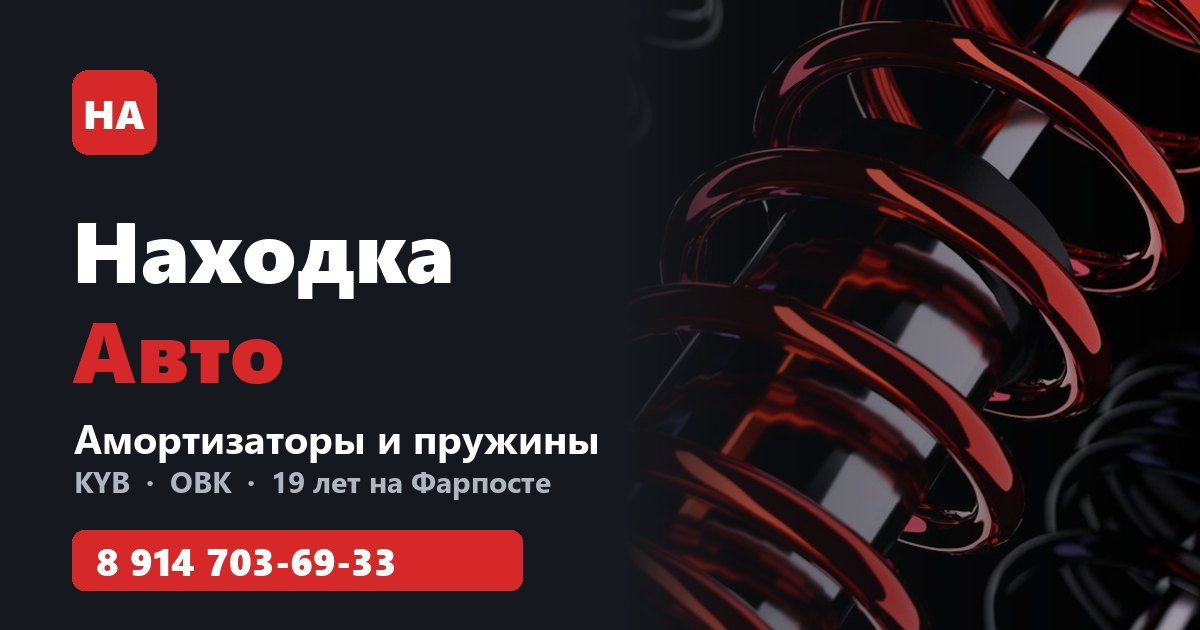
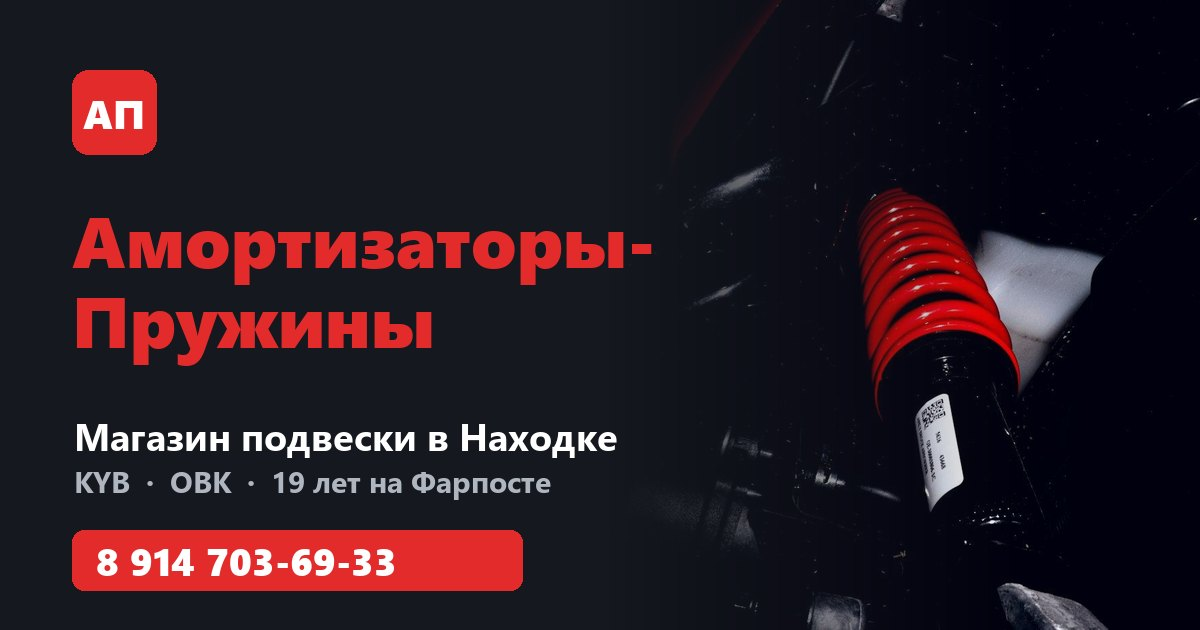
Мамин сайт: фото, яркость, подбор марка→модель, пара и аналоги, кнопки «спросить», название «Амортизаторы-Пружины» (не опубликовано)

diff --git a/script.js b/script.js
@@ -1,5 +1,8 @@
 const PHONE_LINK = "tel:+79147036933";
 const PHONE_TEXT = "8 914 703-69-33";
+const SMS_NUMBER = "+79147036933";
+// Ссылка на мамин профиль в MAX. Пока пусто — кнопка «Спросить в MAX» скрыта.
+const MAX_LINK = "";
 
 function escapeHtml(s) {
   return String(s).replace(/[&<>"']/g, c => ({ "&": "&amp;", "<": "&lt;", ">": "&gt;", '"': "&quot;", "'": "&#39;" }[c]));
@@ -28,12 +31,49 @@ const ITEMS = PARTS.map((r, i) => {
 // Сначала KYB и OBK — основное в магазине
 ITEMS.sort((a, b) => (b.isMain - a.isMain) || a.cat - b.cat || a.brand.localeCompare(b.brand) || a.article.localeCompare(b.article));
 
-const CARS = ["Toyota", "Nissan", "Honda", "Mazda", "Mitsubishi", "Subaru", "Suzuki", "Lexus", "Daihatsu", "Isuzu", "Hyundai", "Kia"];
+// Марки и модели для подбора «марка → модель»
+const MODELS = {
+  Toyota: ["Corolla", "Camry", "Land Cruiser", "Prado", "RAV4", "Prius", "Caldina", "Mark II", "Yaris", "Vitz", "Carina", "Corona", "Wish", "Hiace", "Ipsum", "Highlander", "Avensis", "Premio", "Allion", "Crown", "Celica", "Hilux", "Noah", "Voxy", "Probox", "Succeed", "Harrier", "Vista", "Estima", "Fielder", "Funcargo", "Fortuner", "Alphard", "Aqua", "Auris", "Chaser", "Cresta", "4Runner"],
+  Nissan: ["X-Trail", "Juke", "Almera", "Qashqai", "Primera", "Terrano", "Pathfinder", "Sunny", "Serena", "Murano", "Micra", "Tiida", "Teana", "Patrol", "Maxima", "Leaf", "Wingroad", "Note", "March", "Cube", "Liberty", "Presage", "Bluebird", "Cefiro", "Laurel", "Skyline", "Elgrand"],
+  Honda: ["CR-V", "Fit", "HR-V", "Civic", "Jazz", "Accord", "Stream", "Airwave", "Vezel", "Odyssey", "Shuttle", "Freed", "Stepwgn", "Partner", "Orthia"],
+  Mazda: ["Demio", "MPV", "CX-5", "CX-7", "Tribute", "Bongo", "Premacy", "Familia", "Atenza", "Axela", "Capella"],
+  Mitsubishi: ["Pajero", "Outlander", "Lancer", "Colt", "ASX", "Delica", "Canter", "Airtrek", "RVR", "Galant", "Mirage"],
+  Subaru: ["Forester", "Impreza", "Legacy", "Outback", "Justy", "XV"],
+  Suzuki: ["Grand Vitara", "Escudo", "Swift", "SX4", "Ignis", "Jimny", "Wagon R"],
+  Lexus: ["RX", "ES", "NX", "GX", "GS", "IS", "LX"],
+  Daihatsu: ["Terios", "Cuore", "Charade", "Sirion"],
+  Isuzu: ["Trooper", "Elf", "Bighorn"],
+  Hyundai: ["Creta", "Solaris", "Accent", "Tucson", "Santa Fe", "Elantra", "Getz", "Sonata"],
+  Kia: ["Sorento", "Soul", "Venga", "Rio", "Sportage", "Ceed", "Optima"],
+};
+const CARS = Object.keys(MODELS);
 const carOf = it => CARS.filter(c => it.fits.toLowerCase().includes(c.toLowerCase()));
-ITEMS.forEach(it => { it.cars = carOf(it); });
+ITEMS.forEach(it => { it.cars = carOf(it); it.FITS = it.fits.toUpperCase(); });
+
+// Модель ищем отдельным словом: «Fit» не находится в «FITS», а «RX» находится в «RX300»
+const escRe = s => s.replace(/[.*+?^${}()|[\]\\]/g, "\\$&");
+const modelRe = m => new RegExp("(^|[^A-Z0-9])" + escRe(m.toUpperCase()).replace(/[-\s]/g, "[-\\s]?") + "(?![A-Z])");
+const MODEL_RE = {}, MODEL_COUNT = {};
+CARS.forEach(c => MODELS[c].forEach(m => {
+  MODEL_RE[m] = modelRe(m);
+  MODEL_COUNT[m] = ITEMS.filter(it => MODEL_RE[m].test(it.FITS)).length;
+}));
+
+// Место установки (перед/зад, лев/прав) — для пары и аналогов
+const placeOf = s => ({ front: /перед/i.test(s), rear: /зад/i.test(s), left: /лев/i.test(s), right: /прав/i.test(s) });
+const samePlace = (a, b) =>
+  (!(a.front || a.rear) || !(b.front || b.rear) || (a.front && b.front) || (a.rear && b.rear)) &&
+  (!(a.left || a.right) || !(b.left || b.right) || (a.left && b.left) || (a.right && b.right));
+// Коды кузова из применимости (ACV40, GX81, ZRE152…) — по ним ищем аналоги других брендов
+const NOT_CODES = /^(2WD|4WD|AWD|4X4|4X2|\d+V|\d+MM|\d+L)$/;
+const codesOf = t => new Set((t.match(/[A-Z0-9]+(?:-[A-Z0-9]+)?/g) || [])
+  .filter(c => c.length >= 3 && /\d/.test(c) && /[A-Z]/.test(c) && !NOT_CODES.test(c)));
+// Применимость без пометок стороны («-- FR», «LH», «перед прав»), чтобы левая и правая совпали
+const baseFits = t => t.toUpperCase().replace(/--\s*(FR|FL|RR|RL|F|R)\b/g, "").replace(/\b(LH|RH|LEFT|RIGHT|FRONT|REAR)\b/g, "").replace(/\s+/g, " ").trim();
+ITEMS.forEach(it => { it.place = placeOf(it.side); it.codes = codesOf(it.FITS); it.base = baseFits(it.fits); });
 
 const PAGE = 30;
-const state = { cat: null, car: "", brand: "", query: "", shown: PAGE };
+const state = { cat: null, car: "", model: "", brand: "", query: "", shown: PAGE };
 
 const $ = id => document.getElementById(id);
 const grid = $("productGrid"), count = $("catalogCount"), empty = $("emptyState"), moreBtn = $("moreBtn");
@@ -54,7 +94,8 @@ brandSelect.innerHTML += brandOrder.map(b => `<option value="${escapeHtml(b)}">$
 
 function matches(it, words, compact) {
   if (state.cat !== null && it.cat !== state.cat) return false;
-  if (state.car && !it.cars.includes(state.car)) return false;
+  if (state.model) { if (!MODEL_RE[state.model].test(it.FITS)) return false; }
+  else if (state.car && !it.cars.includes(state.car)) return false;
   if (state.brand && it.brand !== state.brand) return false;
   if (!words.length) return true;
   return words.every(w => it.text.includes(w)) || (compact.length >= 3 && it.art.includes(compact));
@@ -86,13 +127,18 @@ function renderChips() {
     PART_CATEGORIES.map((c, n) => `<button class="chip ${state.cat === n ? "is-active" : ""}" data-cat="${n}">${escapeHtml(c)}</button>`).join("");
   $("carChips").innerHTML = `<span class="chips__label">Машина:</span>` +
     ["", ...CARS].map(c => `<button class="chip chip--small ${state.car === c ? "is-active" : ""}" data-car="${c}">${c || "Любая"}</button>`).join("");
+  const models = state.car ? MODELS[state.car].filter(m => MODEL_COUNT[m] > 0) : [];
+  $("modelRow").hidden = !models.length;
+  $("modelSelect").innerHTML = `<option value="">Все модели ${state.car}</option>` +
+    models.map(m => `<option value="${m}"${state.model === m ? " selected" : ""}>${m} (${MODEL_COUNT[m]})</option>`).join("");
   brandSelect.value = state.brand;
 }
 
 function render() {
   renderChips();
   const list = filtered();
-  $("catalogTitle").textContent = state.cat === null ? "Каталог" : PART_CATEGORIES[state.cat];
+  $("catalogTitle").textContent = (state.cat === null ? "Каталог" : PART_CATEGORIES[state.cat]) +
+    (state.model ? ` для ${state.car} ${state.model}` : state.car ? ` для ${state.car}` : "");
   count.textContent = list.length ? `Найдено: ${list.length.toLocaleString("ru-RU")}` : "";
   empty.hidden = list.length > 0;
   grid.innerHTML = list.slice(0, state.shown).map(card).join("");
@@ -129,8 +175,10 @@ $("carChips").addEventListener("click", e => {
   const b = e.target.closest("[data-car]");
   if (!b) return;
   state.car = b.dataset.car;
+  state.model = "";
   reset();
 });
+$("modelSelect").addEventListener("change", e => { state.model = e.target.value; reset(); });
 brandSelect.addEventListener("change", () => { state.brand = brandSelect.value; reset(); });
 
 $("searchForm").addEventListener("submit", e => {
@@ -148,9 +196,11 @@ moreBtn.addEventListener("click", () => { state.shown += PAGE; render(); });
 
 // Окно товара
 const modal = $("productModal"), modalBody = $("modalBody");
+let currentPart = null;
 function openPart(i) {
   const it = ITEMS.find(x => x.i === i);
   if (!it) return;
+  currentPart = i;
   const rows = [
     ["Раздел", PART_CATEGORIES[it.cat]],
     ["Бренд", it.brand],
@@ -165,10 +215,66 @@ function openPart(i) {
       <table class="specs">${rows.map(([k, v]) => `<tr><td>${k}</td><td>${escapeHtml(v)}</td></tr>`).join("")}</table>
       <div class="modal__price">${money(it.price)}</div>
       <p class="modal__note">Цена по прайсу от ${PARTS_UPDATED}. Наличие уточняйте по телефону.</p>
-      <a class="btn btn--call btn--big" href="${PHONE_LINK}">Позвонить: ${PHONE_TEXT}</a>
+      <div class="ask">
+        <a class="btn btn--call btn--big" href="${PHONE_LINK}">Позвонить: ${PHONE_TEXT}</a>
+        <a class="btn btn--ghost" href="sms:${SMS_NUMBER}?&body=${encodeURIComponent(askText(it))}">Спросить по СМС</a>
+        ${MAX_LINK ? `<button class="btn btn--max" data-ask-max>Спросить в MAX</button>` : ""}
+        <button class="btn btn--ghost" data-copy>Скопировать артикул</button>
+      </div>
+      <p class="ask__tip" id="askTip" hidden></p>
+      ${related("Для этой же машины", sameCar(it), "Тот же бренд и та же машина — например, вторая сторона, чтобы поменять парой.")}
+      ${related("Аналоги других брендов", analogs(it), "Подобраны по коду кузова и месту установки. Точную совместимость сверим по телефону.")}
     </div>`;
   modal.showModal();
+  modal.scrollTop = 0;
 }
+
+// Текст вопроса маме — сразу с брендом, артикулом и названием
+const askText = it => `Здравствуйте! Есть в наличии ${it.brand} ${it.article} — ${it.name}${it.side ? " (" + it.side + ")" : ""}? Нашёл на сайте «Амортизаторы-Пружины».`;
+
+// Для той же машины: тот же бренд и та же применимость (пара, пружины, опоры…)
+function sameCar(it) {
+  if (!it.fits) return [];
+  return ITEMS.filter(x => x !== it && x.brand === it.brand && x.base === it.base)
+    .sort((a, b) => a.cat - b.cat || a.price - b.price).slice(0, 6);
+}
+
+// Аналоги: другой бренд, тот же раздел и место установки, общий код кузова
+function analogs(it) {
+  if (!it.codes.size) return [];
+  return ITEMS.filter(x => x.brand !== it.brand && x.cat === it.cat && samePlace(x.place, it.place) && [...x.codes].some(c => it.codes.has(c)))
+    .sort((a, b) => a.price - b.price).slice(0, 6);
+}
+
+function related(title, list, hint) {
+  if (!list.length) return "";
+  return `<section class="related">
+    <h3>${title}</h3>
+    <p class="related__hint">${hint}</p>
+    ${list.map(x => `<button class="related__item" data-open="${x.i}">
+      <span><b>${escapeHtml(x.brand)} ${escapeHtml(x.article)}</b> · ${escapeHtml(x.name)}${x.side ? ` <span class="part__side">${escapeHtml(x.side)}</span>` : ""}</span>
+      <span class="related__price">${money(x.price)}</span>
+    </button>`).join("")}
+  </section>`;
+}
+
+modalBody.addEventListener("click", async e => {
+  const open = e.target.closest("[data-open]");
+  if (open) { openPart(Number(open.dataset.open)); return; }
+  const it = ITEMS.find(x => x.i === currentPart);
+  const tip = $("askTip");
+  if (e.target.closest("[data-copy]")) {
+    try { await navigator.clipboard.writeText(it.article); tip.textContent = `Артикул ${it.article} скопирован.`; }
+    catch { tip.textContent = `Артикул: ${it.article}`; }
+    tip.hidden = false;
+  }
+  if (e.target.closest("[data-ask-max]")) {
+    try { await navigator.clipboard.writeText(askText(it)); tip.textContent = "Текст вопроса скопирован — вставьте его в чат MAX."; }
+    catch { tip.textContent = askText(it); }
+    tip.hidden = false;
+    window.open(MAX_LINK, "_blank", "noopener");
+  }
+});
 grid.addEventListener("click", e => {
   const c = e.target.closest(".card[data-i]");
   if (c) openPart(Number(c.dataset.i));

diff --git a/index.html b/index.html
@@ -3,7 +3,7 @@
 <head>
   <meta charset="utf-8">
   <meta name="viewport" content="width=device-width, initial-scale=1">
-  <title>Находка Авто — амортизаторы и пружины в Находке</title>
+  <title>Амортизаторы-Пружины — магазин подвески в Находке</title>
   <meta name="description" content="Амортизаторы, стойки, пружины, опоры и пыльники KYB, OBK и других брендов в Находке. Поиск по артикулу и машине, цены на сайте. Звоните: 8 914 703-69-33.">
   <link rel="canonical" href="https://olegclaudecode2000-cloud.github.io/nakhodka-avto/">
   <link rel="icon" href="favicon.svg" type="image/svg+xml">
@@ -14,8 +14,8 @@
   <!-- Карточка при отправке ссылки в мессенджерах -->
   <meta property="og:type" content="website">
   <meta property="og:locale" content="ru_RU">
-  <meta property="og:site_name" content="Находка Авто">
-  <meta property="og:title" content="Находка Авто — амортизаторы и пружины в Находке">
+  <meta property="og:site_name" content="Амортизаторы-Пружины">
+  <meta property="og:title" content="Амортизаторы-Пружины — магазин подвески в Находке">
   <meta property="og:description" content="Амортизаторы, стойки и пружины KYB, OBK и других брендов. Поиск по артикулу и машине. 19 лет на Фарпосте. Находкинский пр-т, 1м.">
   <meta property="og:url" content="https://olegclaudecode2000-cloud.github.io/nakhodka-avto/">
   <meta property="og:image" content="https://olegclaudecode2000-cloud.github.io/nakhodka-avto/og-image.jpg">
@@ -28,8 +28,7 @@
   {
     "@context": "https://schema.org",
     "@type": "AutoPartsStore",
-    "name": "Находка Авто",
-    "alternateName": "Амортизаторы-Пружины",
+    "name": "Амортизаторы-Пружины",
     "description": "Амортизаторы, стойки, пружины, опоры и пыльники KYB, OBK и других брендов. Самовывоз и доставка до транспортной компании.",
     "url": "https://olegclaudecode2000-cloud.github.io/nakhodka-avto/",
     "image": "https://olegclaudecode2000-cloud.github.io/nakhodka-avto/og-image.jpg",
@@ -46,15 +45,15 @@
   }
   </script>
 
-  <link rel="stylesheet" href="styles.css?v=20261031a">
+  <link rel="stylesheet" href="styles.css?v=20261031i">
 </head>
 <body>
 
   <header class="header">
     <div class="container header__row">
       <a href="#" class="logo">
-        <span class="logo__mark">НА</span>
-        <span class="logo__text">Находка <b>Авто</b></span>
+        <span class="logo__mark">АП</span>
+        <span class="logo__text">Амортизаторы-Пружины</span>
       </a>
       <nav class="nav">
         <a href="#catalog">Каталог</a>
@@ -88,6 +87,9 @@
     <div class="filters">
       <div class="chips" id="categoryChips"></div>
       <div class="chips" id="carChips"></div>
+      <label class="brand-select" id="modelRow" hidden>Модель:
+        <select id="modelSelect"></select>
+      </label>
       <label class="brand-select">Бренд:
         <select id="brandSelect"><option value="">Все бренды</option></select>
       </label>
@@ -114,6 +116,7 @@
 
   <section id="about" class="about container">
     <h2>О нас</h2>
+    <img class="about__photo" src="images/suspension.jpg" alt="Подвеска автомобиля: амортизатор и пружина" loading="lazy">
     <div class="about__grid">
       <div class="about__item">
         <h3>Подвеска</h3>
@@ -134,8 +137,8 @@
     <div class="container footer__grid">
       <div>
         <div class="logo logo--dark">
-          <span class="logo__mark">НА</span>
-          <span class="logo__text">Находка <b>Авто</b></span>
+          <span class="logo__mark">АП</span>
+          <span class="logo__text">Амортизаторы-Пружины</span>
         </div>
         <p class="footer__muted">Амортизаторы и пружины в Находке</p>
         <p class="footer__muted"><a href="https://olegclaudecode2000-cloud.github.io/avtozvuk-iz-yaponii/">Автозвук и магнитолы — «Автозвук из Японии» →</a></p>
@@ -162,6 +165,6 @@
   </dialog>
 
   <script src="data/parts.js?v=20261031a"></script>
-  <script src="script.js?v=20261031a"></script>
+  <script src="script.js?v=20261031d"></script>
 </body>
 </html>

diff --git a/styles.css b/styles.css
@@ -1,12 +1,12 @@
 :root {
-  --bg: #f5f6f8;
+  --bg: #f8f8fa;
   --surface: #ffffff;
   --text: #1a1d23;
   --muted: #6b7280;
   --border: #e3e6eb;
   --dark: #15181e;
   --dark-2: #232831;
-  --accent: #d62828;
+  --accent: #e32b2b;
   --accent-hover: #b81f1f;
   --accent-soft: #fdeceb;
   --danger: #c62828;
@@ -400,3 +400,78 @@ h1, h2, h3 { line-height: 1.2; margin: 0 0 .5em; }
   #carChips { flex-wrap: nowrap; overflow-x: auto; padding-bottom: 4px; }
   #carChips .chip { flex: none; }
 }
+
+/* Фото: первый экран, «Не нашли», «О нас» */
+.hero {
+  background:
+    linear-gradient(90deg, #15181e 0%, rgba(21, 24, 30, .9) 36%, rgba(21, 24, 30, .3) 72%, rgba(21, 24, 30, .1) 100%),
+    url("images/hero.jpg") right center / cover no-repeat;
+  color: #fff;
+  border-bottom: 0;
+  padding: 56px 0 48px;
+}
+.hero h1 { color: #fff; }
+.hero__sub { color: #cfd3da; }
+.hero__sub b { color: #fff; }
+.search { box-shadow: 0 10px 30px rgba(0, 0, 0, .35); }
+.hero .tile { background: rgba(255, 255, 255, .96); }
+.request__box {
+  background:
+    linear-gradient(90deg, rgba(21, 24, 30, .95) 0%, rgba(21, 24, 30, .8) 55%, rgba(21, 24, 30, .4) 100%),
+    url("images/spring.jpg") center / cover no-repeat;
+  color: #fff;
+  border: 0;
+  border-left: 4px solid var(--accent);
+  padding: 36px 32px;
+}
+.request__box p { color: #cfd3da; }
+.about__photo { width: 100%; height: 280px; object-fit: cover; border-radius: var(--radius); display: block; margin-bottom: 16px; }
+
+@media (max-width: 820px) {
+  .hero {
+    background:
+      linear-gradient(180deg, rgba(21, 24, 30, .45) 0%, rgba(21, 24, 30, .85) 40%, #15181e 75%),
+      url("images/hero.jpg") 72% top / auto 62% no-repeat, #15181e;
+  }
+  .about__photo { height: 200px; }
+}
+
+/* Чуть-чуть яркости: мягкое красное свечение */
+.hero { box-shadow: inset 0 -3px 0 var(--accent); }
+.hero h1 { text-shadow: 0 0 34px rgba(227, 43, 43, .35); }
+.btn--accent, .btn--call { box-shadow: 0 6px 18px rgba(227, 43, 43, .35); }
+.btn--accent:hover, .btn--call:hover { box-shadow: 0 8px 24px rgba(227, 43, 43, .5); }
+.tile:hover { box-shadow: 0 8px 24px rgba(227, 43, 43, .22); }
+.tile__icon, .part__icon { box-shadow: inset 0 0 0 1px rgba(227, 43, 43, .15); }
+.card:hover { box-shadow: 0 10px 26px rgba(227, 43, 43, .14); border-color: rgba(227, 43, 43, .45); }
+.catalog__head h2::after, .about > h2::after {
+  content: ""; display: block; width: 56px; height: 4px; margin-top: 8px; border-radius: 2px;
+  background: linear-gradient(90deg, var(--accent), #ff7a45);
+}
+.chip.is-active { box-shadow: 0 4px 12px rgba(227, 43, 43, .3); }
+.call-fab { box-shadow: 0 6px 22px rgba(227, 43, 43, .55); }
+
+/* Окно товара: спросить, пара, аналоги */
+.btn--ghost { background: var(--surface); color: var(--text); box-shadow: inset 0 0 0 1px var(--border); }
+.btn--ghost:hover { box-shadow: inset 0 0 0 1px var(--accent); color: var(--accent); }
+.btn--max { background: #4f46e5; color: #fff; }
+.ask { display: grid; gap: 8px; }
+.ask .btn { width: 100%; }
+.ask__tip { margin: 8px 0 0; color: var(--green); font-size: .9rem; font-weight: 600; }
+.related { margin-top: 22px; padding-top: 16px; border-top: 1px solid var(--border); }
+.related h3 { font-size: 1.05rem; margin: 0 0 2px; }
+.related__hint { margin: 0 0 10px; color: var(--muted); font-size: .85rem; }
+.related__item {
+  display: flex; justify-content: space-between; align-items: center; gap: 12px; width: 100%;
+  font: inherit; font-size: .92rem; text-align: left; color: var(--text); background: var(--bg);
+  border: 1px solid var(--border); border-radius: 10px; padding: 10px 12px; margin-bottom: 6px; cursor: pointer; min-height: 44px;
+}
+.related__item:hover { border-color: var(--accent); }
+.related__price { flex: none; font-weight: 700; color: var(--accent); }
+.modal { overflow-y: auto; }
+
+/* Длинное название «Амортизаторы-Пружины» в шапке */
+.logo__text { white-space: nowrap; }
+@media (max-width: 420px) { .logo { font-size: .95rem; gap: 8px; } .logo__mark { width: 32px; height: 32px; font-size: .8rem; } }
+/* Название магазина целиком красным */
+.logo__text { color: var(--accent); font-weight: 800; letter-spacing: .01em; }
